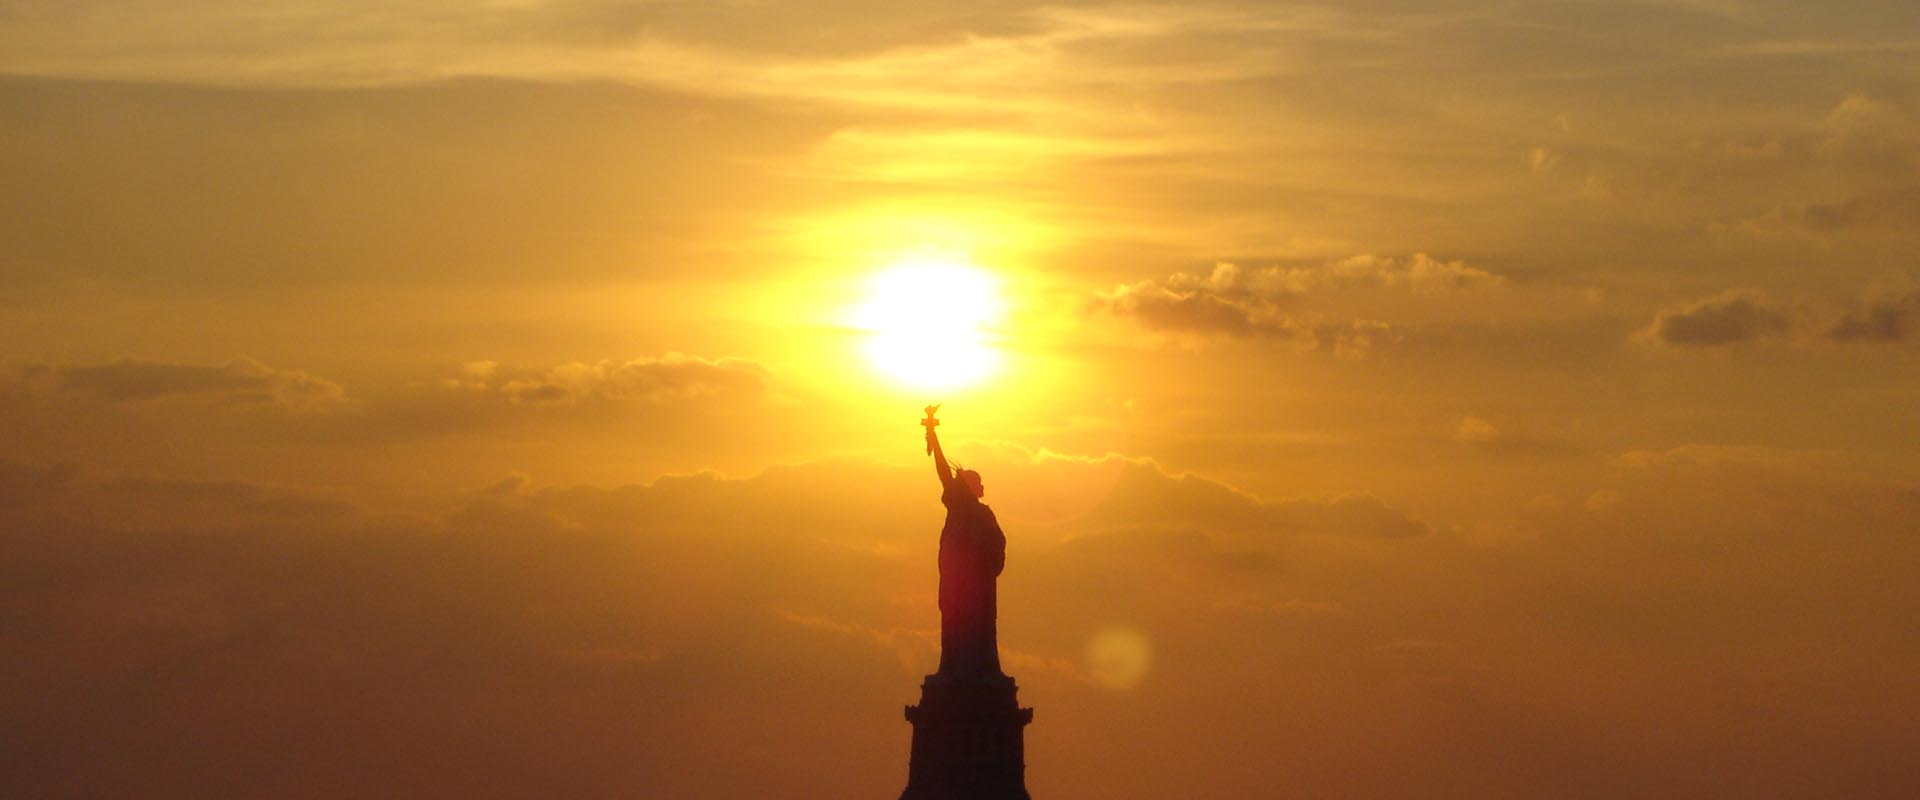
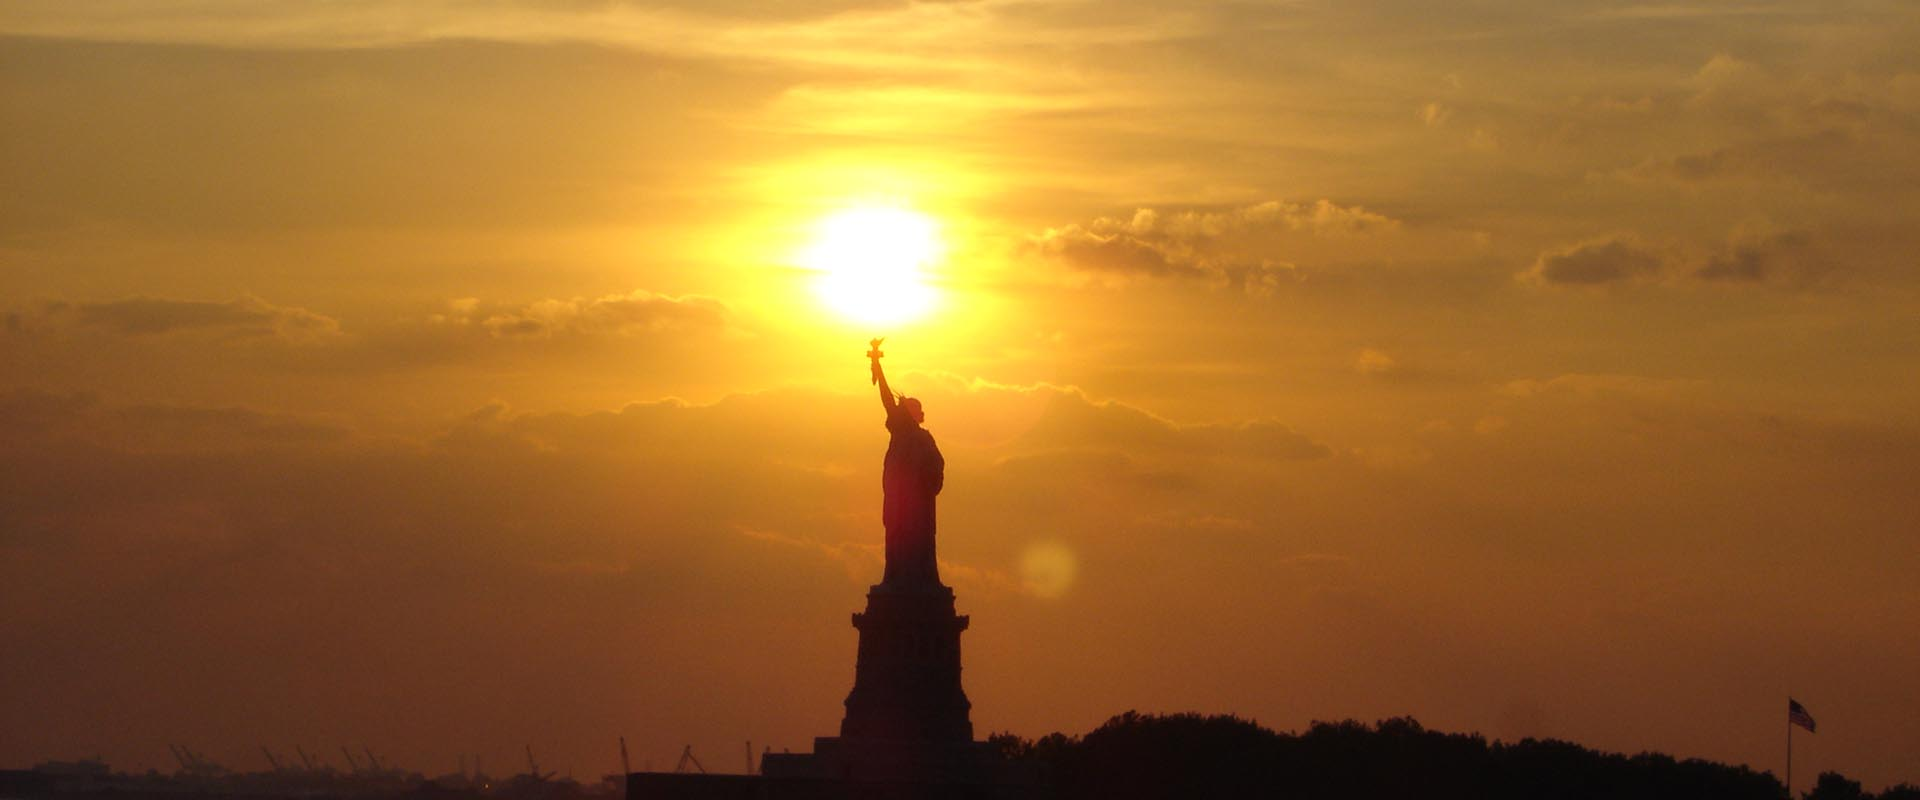
Liberty Image for Start page

diff --git a/start/index.md b/start/index.md
@@ -4,7 +4,7 @@ title: Get Started with CLAM
 modified: 2014-07-31T13:23:02.362000-04:00
 excerpt: "Basic information about getting started with CLAMs."
 image:
-  feature: cranes.jpg
+  feature: liberty.jpg
 ---
 
 {% include _toc.html %}
